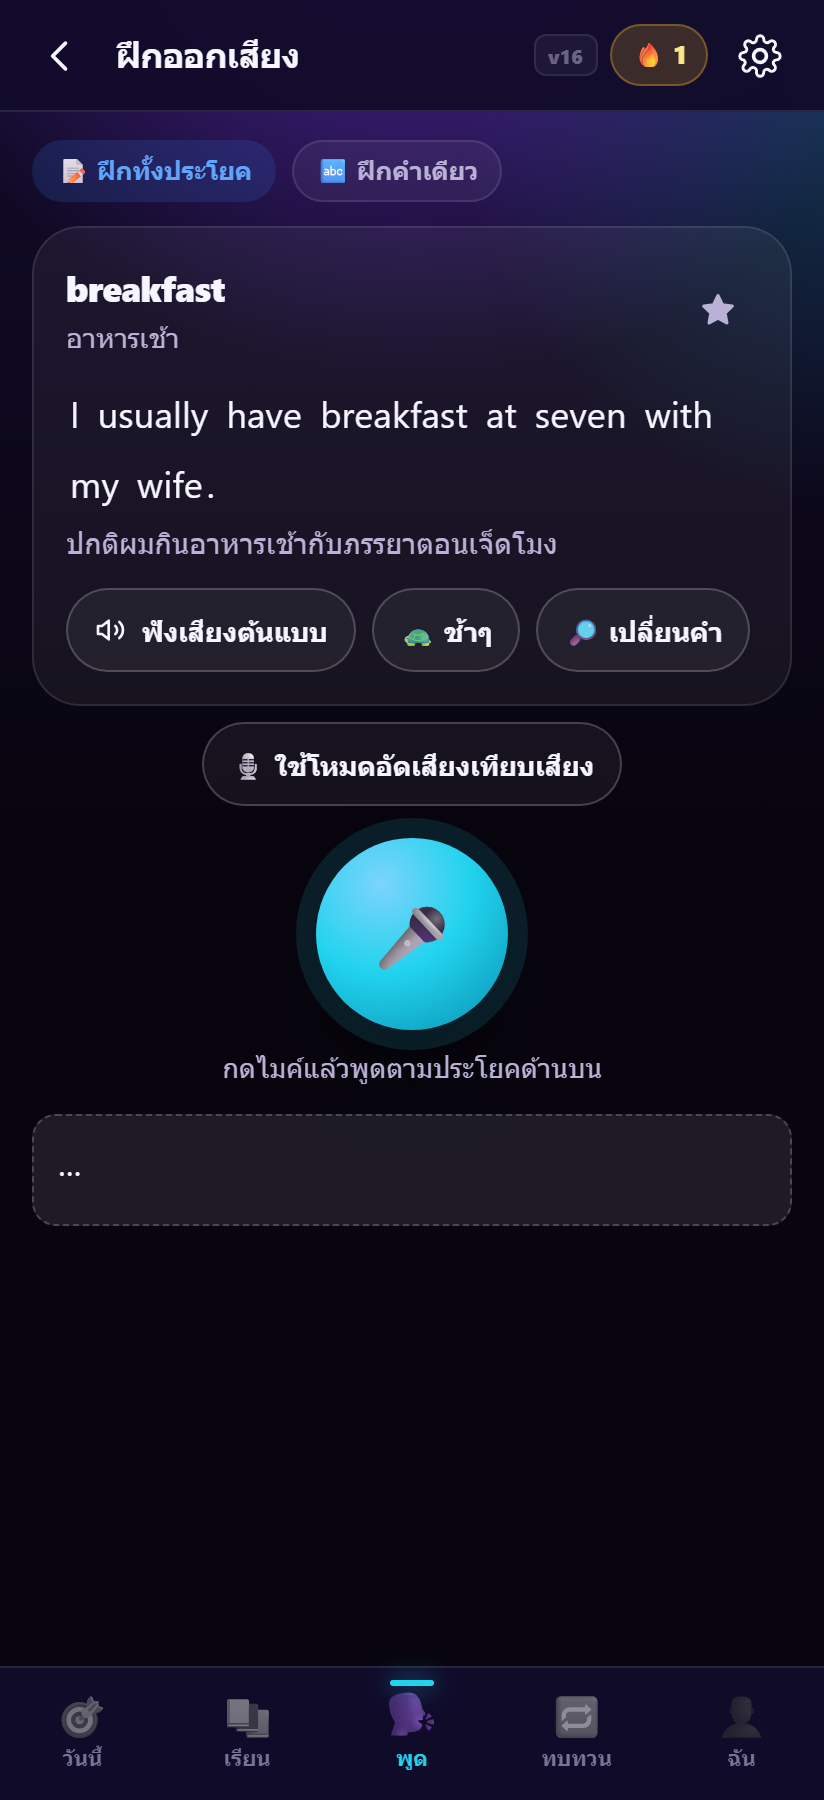
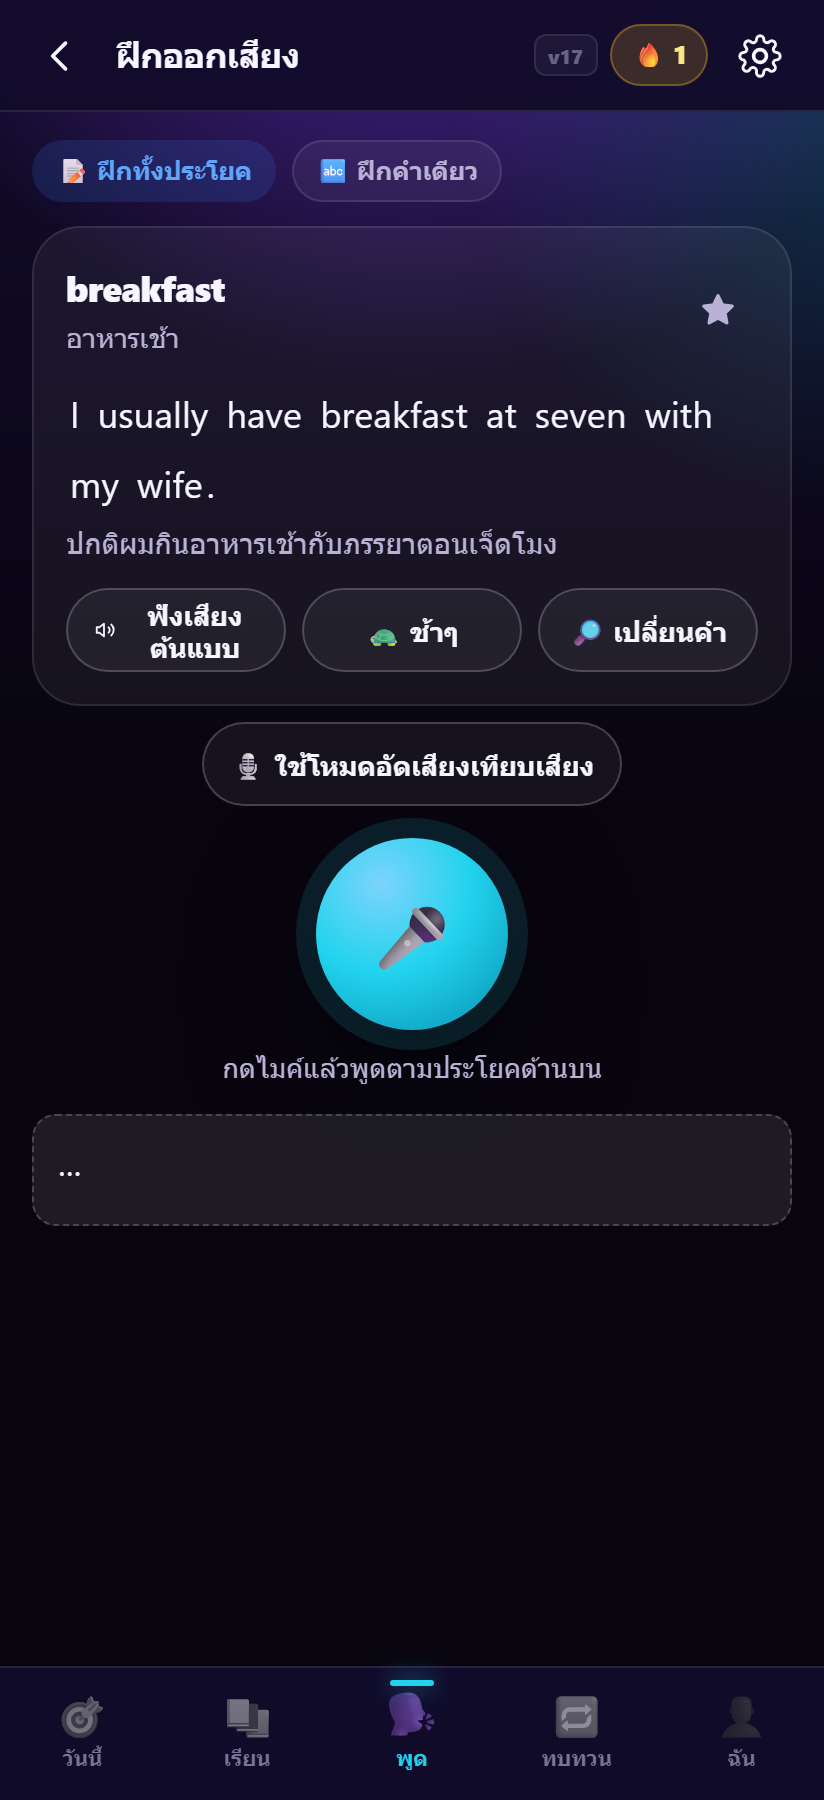
feat(speaking): sfx, listen-on-every-line, no photos in role-play (v17)
User feedback after testing on iPhone/Android:
1 layout: paired .btn-block buttons in a .row could not shrink because
  .row > .btn-sm had flex:0 0 auto + width:100% -> the second button was
  pushed off-screen. Fixed: .row > .btn-block { width:auto; flex:1 1 0 }.
2 sfx: new js/sfx.js (Web Audio, no assets) - mic start/stop two-note cues,
  success chime, soft 'not yet' tones; wired to role-play, pronounce view,
  one-minute mode and the record panel; settings toggle (sfx, default on).
3+4 every dialogue line now has a 'listen to this sentence' button (both the
  counterpart's line and yours) plus a 'listen before speaking' + slow-play
  row above the mic.
5 role-play scenarios no longer show a photo; vocabulary screens keep art.
- v17; 144/144 E2E (+5 new assertions)

diff --git a/js/views-speaking.js b/js/views-speaking.js
@@ -24,6 +24,7 @@ import {
   listRecordings, deleteRecording, updateRecording,
 } from './recorder.js';
 import { mascot } from './mascot.js';
+import { sfxTap, sfxMicStart, sfxMicStop, sfxSuccess, sfxSoft } from './sfx.js';
 
 const S = () => store.settings();
 const say = (text, opts = {}) => sayText(text, { rate: S().rate, voiceURI: S().voiceURI, gender: S().voiceGender, ...opts });
@@ -257,12 +258,7 @@ export function roleplay(root, params = {}) {
 
     // บริบท + ภาพ
     const ctx = h('div', { class: 'card', style: { marginTop: '12px', padding: '12px' } });
-    ctx.appendChild(photoBox(d, {
-      color: categoryOf(d.category).color,
-      showPhotos: S().showPhotos,
-      allowCycle: true,
-      class: 'dlg-photo',
-    }));
+
     ctx.appendChild(h('div', { class: 'row' },
       h('div', { style: { flex: '1' } },
         h('div', { class: 'bold', text: `${d.emoji || '💬'} ${d.title}` }),
@@ -294,7 +290,18 @@ export function roleplay(root, params = {}) {
       class: `bubble ${mine ? 'me' : 'other'} ${isCurrent ? 'current' : ''}`,
       dataset: { line: String(i) },
     });
-    card.appendChild(h('div', { class: 'who', text: mine ? '🙋 คุณ (บทของคุณ)' : `${d.counterpart?.emoji || '🧑'} ${d.counterpart?.labelTh || 'คู่สนทนา'}` }));
+    const whoRow = h('div', { class: 'row', style: { gap: '6px', marginBottom: '4px' } },
+      h('div', { class: 'who', style: { margin: '0', flex: '1' }, text: mine ? '🙋 คุณ (บทของคุณ)' : `${d.counterpart?.emoji || '🧑'} ${d.counterpart?.labelTh || 'คู่สนทนา'}` }),
+      h('button', {
+        class: 'icon-btn', type: 'button', 'aria-label': 'ฟังเสียงประโยคนี้',
+        style: { width: '34px', height: '30px' },
+        onclick: (e) => {
+          e.stopPropagation();
+          sfxTap();
+          sayText(line.en, { rate: S().rate, voiceURI: S().voiceURI, gender: S().voiceGender, audioKey: `${d.id}:${i}` });
+        },
+      }, icon('sound', 16)));
+    card.appendChild(whoRow);
     const sent = h('div', { class: 'bubble-en' });
     renderSentence(sent, line.en);
     sent.addEventListener('click', (e) => {
@@ -406,6 +413,20 @@ export function roleplay(root, params = {}) {
       return;
     }
 
+    // ปุ่มฟังประโยคคำตอบก่อนพูด (ผู้ใช้ขอ: ให้รู้ว่าต้องพูดว่าอะไร)
+    actionBox.appendChild(h('div', { class: 'row', style: { gap: '8px', marginBottom: '5px' } },
+      h('button', {
+        class: 'btn btn-ghost btn-block btn-sm', type: 'button',
+        onclick: (e) => {
+          try { sfxTap(); } catch (err) { /* ignore */ }
+          sayText(line.en, { rate: S().rate, voiceURI: S().voiceURI, gender: S().voiceGender, audioKey: `${d.id}:${i}` });
+        },
+      }, icon('sound', 16), 'ฟังประโยคนี้ก่อนพูด'),
+      h('button', {
+        class: 'btn btn-ghost btn-sm', type: 'button', 'aria-label': 'ฟังช้าๆ',
+        onclick: () => sayText(line.en, { rate: Math.max(0.55, S().rate - 0.3), voiceURI: S().voiceURI, gender: S().voiceGender }),
+      }, '🐢')));
+
     const mic = h('button', { class: 'mic-btn', type: 'button', 'aria-label': 'กดเพื่อพูด', style: { width: '78px', height: '78px', fontSize: '1.7rem' } }, '🎤');
     const hint = h('div', { class: 'small muted center', style: { marginTop: '6px' }, text: 'กดไมค์แล้วพูดประโยคของคุณ' });
 
@@ -507,12 +528,14 @@ export function roleplay(root, params = {}) {
       hint.textContent = recordEnabled() ? 'กำลังฟัง… พูดได้เลย (บันทึกเสียงไว้ให้ฟังย้อนหลังด้วย)' : 'กำลังฟัง… พูดได้เลย';
       statusEl.textContent = '…';
       recording = true;
+      try { sfxMicStart(); } catch (e) { /* ignore */ }
       // เพดานเวลากันตาย: ต่อให้ไมค์/ตัวบันทึกเสียงค้าง UI ก็ต้องไม่ค้างตาม
       const { said, blob, err } = await Promise.race([
         listenOnce({ onInterim: (txt) => { statusEl.textContent = txt || '…'; } }),
         new Promise((resolve) => setTimeout(() => resolve({ said: '', blob: null, err: 'timeout' }), 12000)),
       ]);
       recording = false;
+      try { sfxMicStop(); } catch (e) { /* ignore */ }
       mic.classList.remove('rec');
       if (err === 'timeout') {
         hint.textContent = 'หมดเวลา — กดไมค์แล้วลองพูดอีกครั้ง';
@@ -546,6 +569,7 @@ export function roleplay(root, params = {}) {
       b.appendChild(badge);
     }
     const ok = score >= threshold();
+    try { if (ok) sfxSuccess(); else sfxSoft(); } catch (e) { /* ignore */ }
     badge.style.color = ok ? 'var(--success)' : 'var(--warn)';
     badge.textContent = ok ? `✓ พูดผ่าน ${score}%` : `พูดได้ ${score}% — ยังต้องฝึกอีกนิด`;
   }
@@ -569,6 +593,7 @@ export function roleplay(root, params = {}) {
     updateBubbleScore(i, score);
 
     const ok = score >= threshold();
+    try { if (ok) sfxSuccess(); else sfxSoft(); } catch (e) { /* ignore */ }
     store.gradeSentence(key, ok ? (score >= 92 ? 3 : 2) : 1);
     if (ok && blob) saveRecording({
       kind: 'dialogue', refId: key, label: line.en, blob,
@@ -1043,6 +1068,7 @@ export function oneMinute(root) {
       handle = await startRecording();
       if (!handle) { phase = 'idle'; render(); toast('เริ่มอัดไม่สำเร็จ — ตรวจสิทธิ์ไมโครโฟน', 'err'); return; }
       startedAt = Date.now();
+      try { sfxMicStart(); } catch (e) { /* ignore */ }
       timerId = setInterval(tick, 200);
       tick();
     });
@@ -1054,6 +1080,7 @@ export function oneMinute(root) {
     const secs = Math.max(1, Math.round((Date.now() - startedAt) / 1000));
     const blob = await handle.stop();
     handle = null;
+    try { sfxMicStop(); } catch (e) { /* ignore */ }
     if (!blob) { phase = 'idle'; render(); toast('ไม่ได้ยินเสียง ลองอีกครั้ง', 'err'); return; }
     lastBlob = blob;
     lastSeconds = secs;

diff --git a/js/sfx.js b/js/sfx.js
@@ -1,0 +1,87 @@
+/**
+ * sfx.js — เสียงเอฟเฟกต์ (สังเคราะห์ด้วย Web Audio ไม่ต้องโหลดไฟล์)
+ *
+ * ทำไม: เสียงเล็ก ๆ ตอนกด/สำเร็จ ทำให้แอปรู้สึก "แพง" และล้ำ (แบบ Siri/ELSA)
+ * ข้อดี: 0 KB, ทำงานออฟไลน์, ปรับความดังได้, ไม่มีลิขสิทธิ์
+ *
+ * ทุกฟังก์ชันต้องถูกเรียกจาก "การกดของผู้ใช้" (browser ต้องมี gesture ก่อนเล่นเสียง)
+ */
+
+import * as store from './store.js';
+
+let ac = null;
+
+function audio() {
+  if (store.settings().sfx === false) return null;
+  try {
+    const Ctx = window.AudioContext || window.webkitAudioContext;
+    if (!Ctx) return null;
+    if (!ac) ac = new Ctx();
+    if (ac.state === 'suspended') ac.resume().catch(() => {});
+    return ac;
+  } catch (e) {
+    return null;
+  }
+}
+
+/**
+ * เล่นโน้ตหนึ่งตัว
+ * @param {object} o { freq, dur, type, gain, when, slideTo }
+ */
+function tone(o = {}) {
+  const ctx = audio();
+  if (!ctx) return;
+  const {
+    freq = 440, dur = 0.12, type = 'sine', gain = 0.06, when = 0, slideTo = null,
+  } = o;
+  const t0 = ctx.currentTime + when;
+  const osc = ctx.createOscillator();
+  const g = ctx.createGain();
+  osc.type = type;
+  osc.frequency.setValueAtTime(freq, t0);
+  if (slideTo) osc.frequency.exponentialRampToValueAtTime(Math.max(40, slideTo), t0 + dur);
+  // envelope: ขึ้นเร็ว ลงนุ่ม (ไม่ให้มีเสียง "แป๊ก")
+  g.gain.setValueAtTime(0.0001, t0);
+  g.gain.exponentialRampToValueAtTime(gain, t0 + 0.012);
+  g.gain.exponentialRampToValueAtTime(0.0001, t0 + dur);
+  osc.connect(g).connect(ctx.destination);
+  osc.start(t0);
+  osc.stop(t0 + dur + 0.02);
+}
+
+/** แตะปุ่มทั่วไป */
+export function sfxTap() {
+  tone({ freq: 620, dur: 0.045, gain: 0.035, type: 'triangle' });
+}
+
+/** เริ่มอัดเสียง (ขึ้นสองโน้ต — ให้ความรู้สึก "เปิดไมค์") */
+export function sfxMicStart() {
+  tone({ freq: 523.25, dur: 0.08, gain: 0.05, type: 'sine' });
+  tone({ freq: 783.99, dur: 0.09, gain: 0.045, type: 'sine', when: 0.07 });
+}
+
+/** หยุดอัดเสียง (ลงสองโน้ต) */
+export function sfxMicStop() {
+  tone({ freq: 783.99, dur: 0.07, gain: 0.045, type: 'sine' });
+  tone({ freq: 523.25, dur: 0.09, gain: 0.05, type: 'sine', when: 0.07 });
+}
+
+/** สำเร็จ/ผ่านเกณฑ์ — chime สามโน้ต (แบบ ELSA) */
+export function sfxSuccess() {
+  [523.25, 659.25, 783.99].forEach((f, i) => {
+    tone({ freq: f, dur: 0.18, gain: 0.06, type: 'sine', when: i * 0.085 });
+  });
+}
+
+/** ยังไม่ผ่าน — สองโน้ตนุ่ม ๆ (ไม่ให้รู้สึกผิด) */
+export function sfxSoft() {
+  tone({ freq: 392, dur: 0.14, gain: 0.045, type: 'sine' });
+  tone({ freq: 329.63, dur: 0.18, gain: 0.04, type: 'sine', when: 0.1 });
+}
+
+/** จบบท/ทำครบ — ขึ้นบันไดสั้น ๆ */
+export function sfxComplete() {
+  [523.25, 659.25, 783.99, 1046.5].forEach((f, i) => {
+    tone({ freq: f, dur: 0.2, gain: 0.055, type: 'sine', when: i * 0.1 });
+  });
+}

diff --git a/js/views.js b/js/views.js
@@ -1,4 +1,4 @@
-/**
+/**
  * views.js — หน้าจอทั้งหมดของแอป PicEnglish
  * ทุกหน้าคืนค่าเป็นฟังก์ชัน cleanup เพื่อให้ router เรียกตอนออกจากหน้า (หยุดเสียงที่ค้างอยู่)
  */
@@ -14,6 +14,7 @@ import {
   englishVoices, sttSupported, sttSupport, sttErrorReason, sttSelfTest, inAppBrowser, createRecognizer, alignWords,
 } from './speech.js';
 import { micPanel } from './micfallback.js';
+import { sfxTap } from './sfx.js';
 import { VERSION, BUILD_DATE } from './version.js';
 import { photoFor, preloadPhotos, clearPhotoCache } from './images.js';
 import { artFor, artCredits } from './art.js';
@@ -876,6 +877,7 @@ export function speakView(root) {
     }
 
     mic.onclick = () => {
+      try { sfxTap(); } catch (e) { /* ignore */ }
       if (recording) { try { rec.stop(); } catch (e) { /* ignore */ } return; }
       stopSpeaking();
       clear(result);
@@ -1462,6 +1464,9 @@ export function openSettings(onChange) {
         return sel;
       })()));
     box.appendChild(h('div', { class: 'field' },
+      h('div', {}, h('label', { text: 'เสียงเอฟเฟกต์' }),
+        h('div', { class: 'desc', text: 'เสียงตอนกดไมค์ / ตอนผ่านบทเรียน (สังเคราะห์ในเครื่อง ไม่ต้องโหลด)' })),
+      switchEl('sfx')));    box.appendChild(h('div', { class: 'field' },
       h('div', {}, h('label', { text: 'บันทึกเสียงของฉัน' }),
         h('div', { class: 'desc', text: 'เก็บไว้ในเครื่องเท่านั้น เพื่อฟังเทียบกับเสียงต้นแบบ' })),
       switchEl('recordVoice')));

diff --git a/js/store.js b/js/store.js
@@ -20,7 +20,8 @@ const DEFAULTS = {
     micExplained: false,    // เคยอธิบายก่อนขออนุญาตไมค์แล้วหรือยัง
     strictSpeak: true,      // ต้องพูดให้ผ่านก่อนจึงจะไปประโยคถัดไป (โหมดเข้ม)
     passThreshold: 70,      // เกณฑ์ผ่านการออกเสียง (%)
-    recordVoice: true,      // บันทึกเสียงผู้ใช้ไว้ฟังย้อนหลัง (เก็บในเครื่องเท่านั้น)
+    recordVoice: true,
+    sfx: true,              // เสียงเอฟเฟกต์ (Web Audio)      // บันทึกเสียงผู้ใช้ไว้ฟังย้อนหลัง (เก็บในเครื่องเท่านั้น)
   },
   srs: {},                  // id -> {ease, interval, reps, lapses, due, last}
   srsSentences: {},         // "dlgId:lineIndex" -> เหมือน srs (ทบทวนระดับประโยค)

diff --git a/js/micfallback.js b/js/micfallback.js
@@ -11,6 +11,7 @@
 
 import { h, mount, clear, toast } from './ui.js';
 import { inAppBrowser } from './speech.js';
+import { sfxTap, sfxMicStart, sfxMicStop, sfxSuccess } from './sfx.js';
 import { startRecording, playBlob, abortRecording, micDiagnosticsReport } from './recorder.js';
 import * as store from './store.js';
 
@@ -73,6 +74,7 @@ export function micPanel(opts = {}) {
 
   async function start() {
     if (recording) return;
+    try { sfxMicStart(); } catch (e) { /* ignore */ }
     clear(resultBox);
     peak = 0;
     handle = await startRecording({ onLevel: setLevel });
@@ -116,6 +118,7 @@ export function micPanel(opts = {}) {
 
   async function stop() {
     if (!recording) return;
+    try { sfxMicStop(); } catch (e) { /* ignore */ }
     recording = false;
     clearInterval(timerId); timerId = null;
     micBtn.classList.remove('rec');

diff --git a/css/style.css b/css/style.css
@@ -263,7 +263,8 @@ h1, .h1 { font-size: var(--fs-display); font-weight: 800; letter-spacing: -.02em
 
 .row { display: flex; gap: 10px; align-items: center; min-width: 0; }
 .row > * { flex: 1; min-width: 0; }
-.row > .spacer, .row > .chip-streak, .row > .xp-chip, .row > .icon-btn, .row > .pill, .row > span, .row > .btn-sm { flex: 0 0 auto; }
+.row > .spacer, .row > .chip-streak, .row > .xp-chip, .row > .icon-btn, .row > .pill, .row > span { flex: 0 0 auto; }
+/* ปุ่มแบบ block ที่อยู่คู่กันต้องหดได้ ไม่งั้นดันจอล้น (บั๊กที่เจอ) */.n.row > .btn-block { width: auto; flex: 1 1 0; min-width: 0; }
 .row-wrap { flex-wrap: wrap; }
 .spacer { flex: 1; }
 .stack > * + * { margin-top: 10px; }

diff --git a/sw.js b/sw.js
@@ -1,5 +1,5 @@
 /* PicEnglish service worker — offline-first สำหรับตัวแอป + cache ภาพถ่ายจากคลังฟรี */
-const VERSION = 'v16';
+const VERSION = 'v17';
 const SHELL_CACHE = `picenglish-shell-${VERSION}`;
 const PHOTO_CACHE = `picenglish-photos-${VERSION}`;
 
@@ -21,6 +21,7 @@ const SHELL_ASSETS = [
   './js/liff.js',
   './js/art.js',
   './js/mascot.js',
+  './js/sfx.js',
   './js/version.js',
   './js/micfallback.js',
   './js/openinbrowser.js',

diff --git a/js/version.js b/js/version.js
@@ -4,5 +4,5 @@
  * กติกา: ทุกครั้งที่แก้ไฟล์ที่แอปโหลด ให้เพิ่มเลขนี้ + ใน sw.js ให้ตรงกัน
  * (scripts/check_imports.mjs จะฟ้องถ้าไม่ตรง)
  */
-export const VERSION = 'v16';
+export const VERSION = 'v17';
 export const BUILD_DATE = '2026-10-17';
